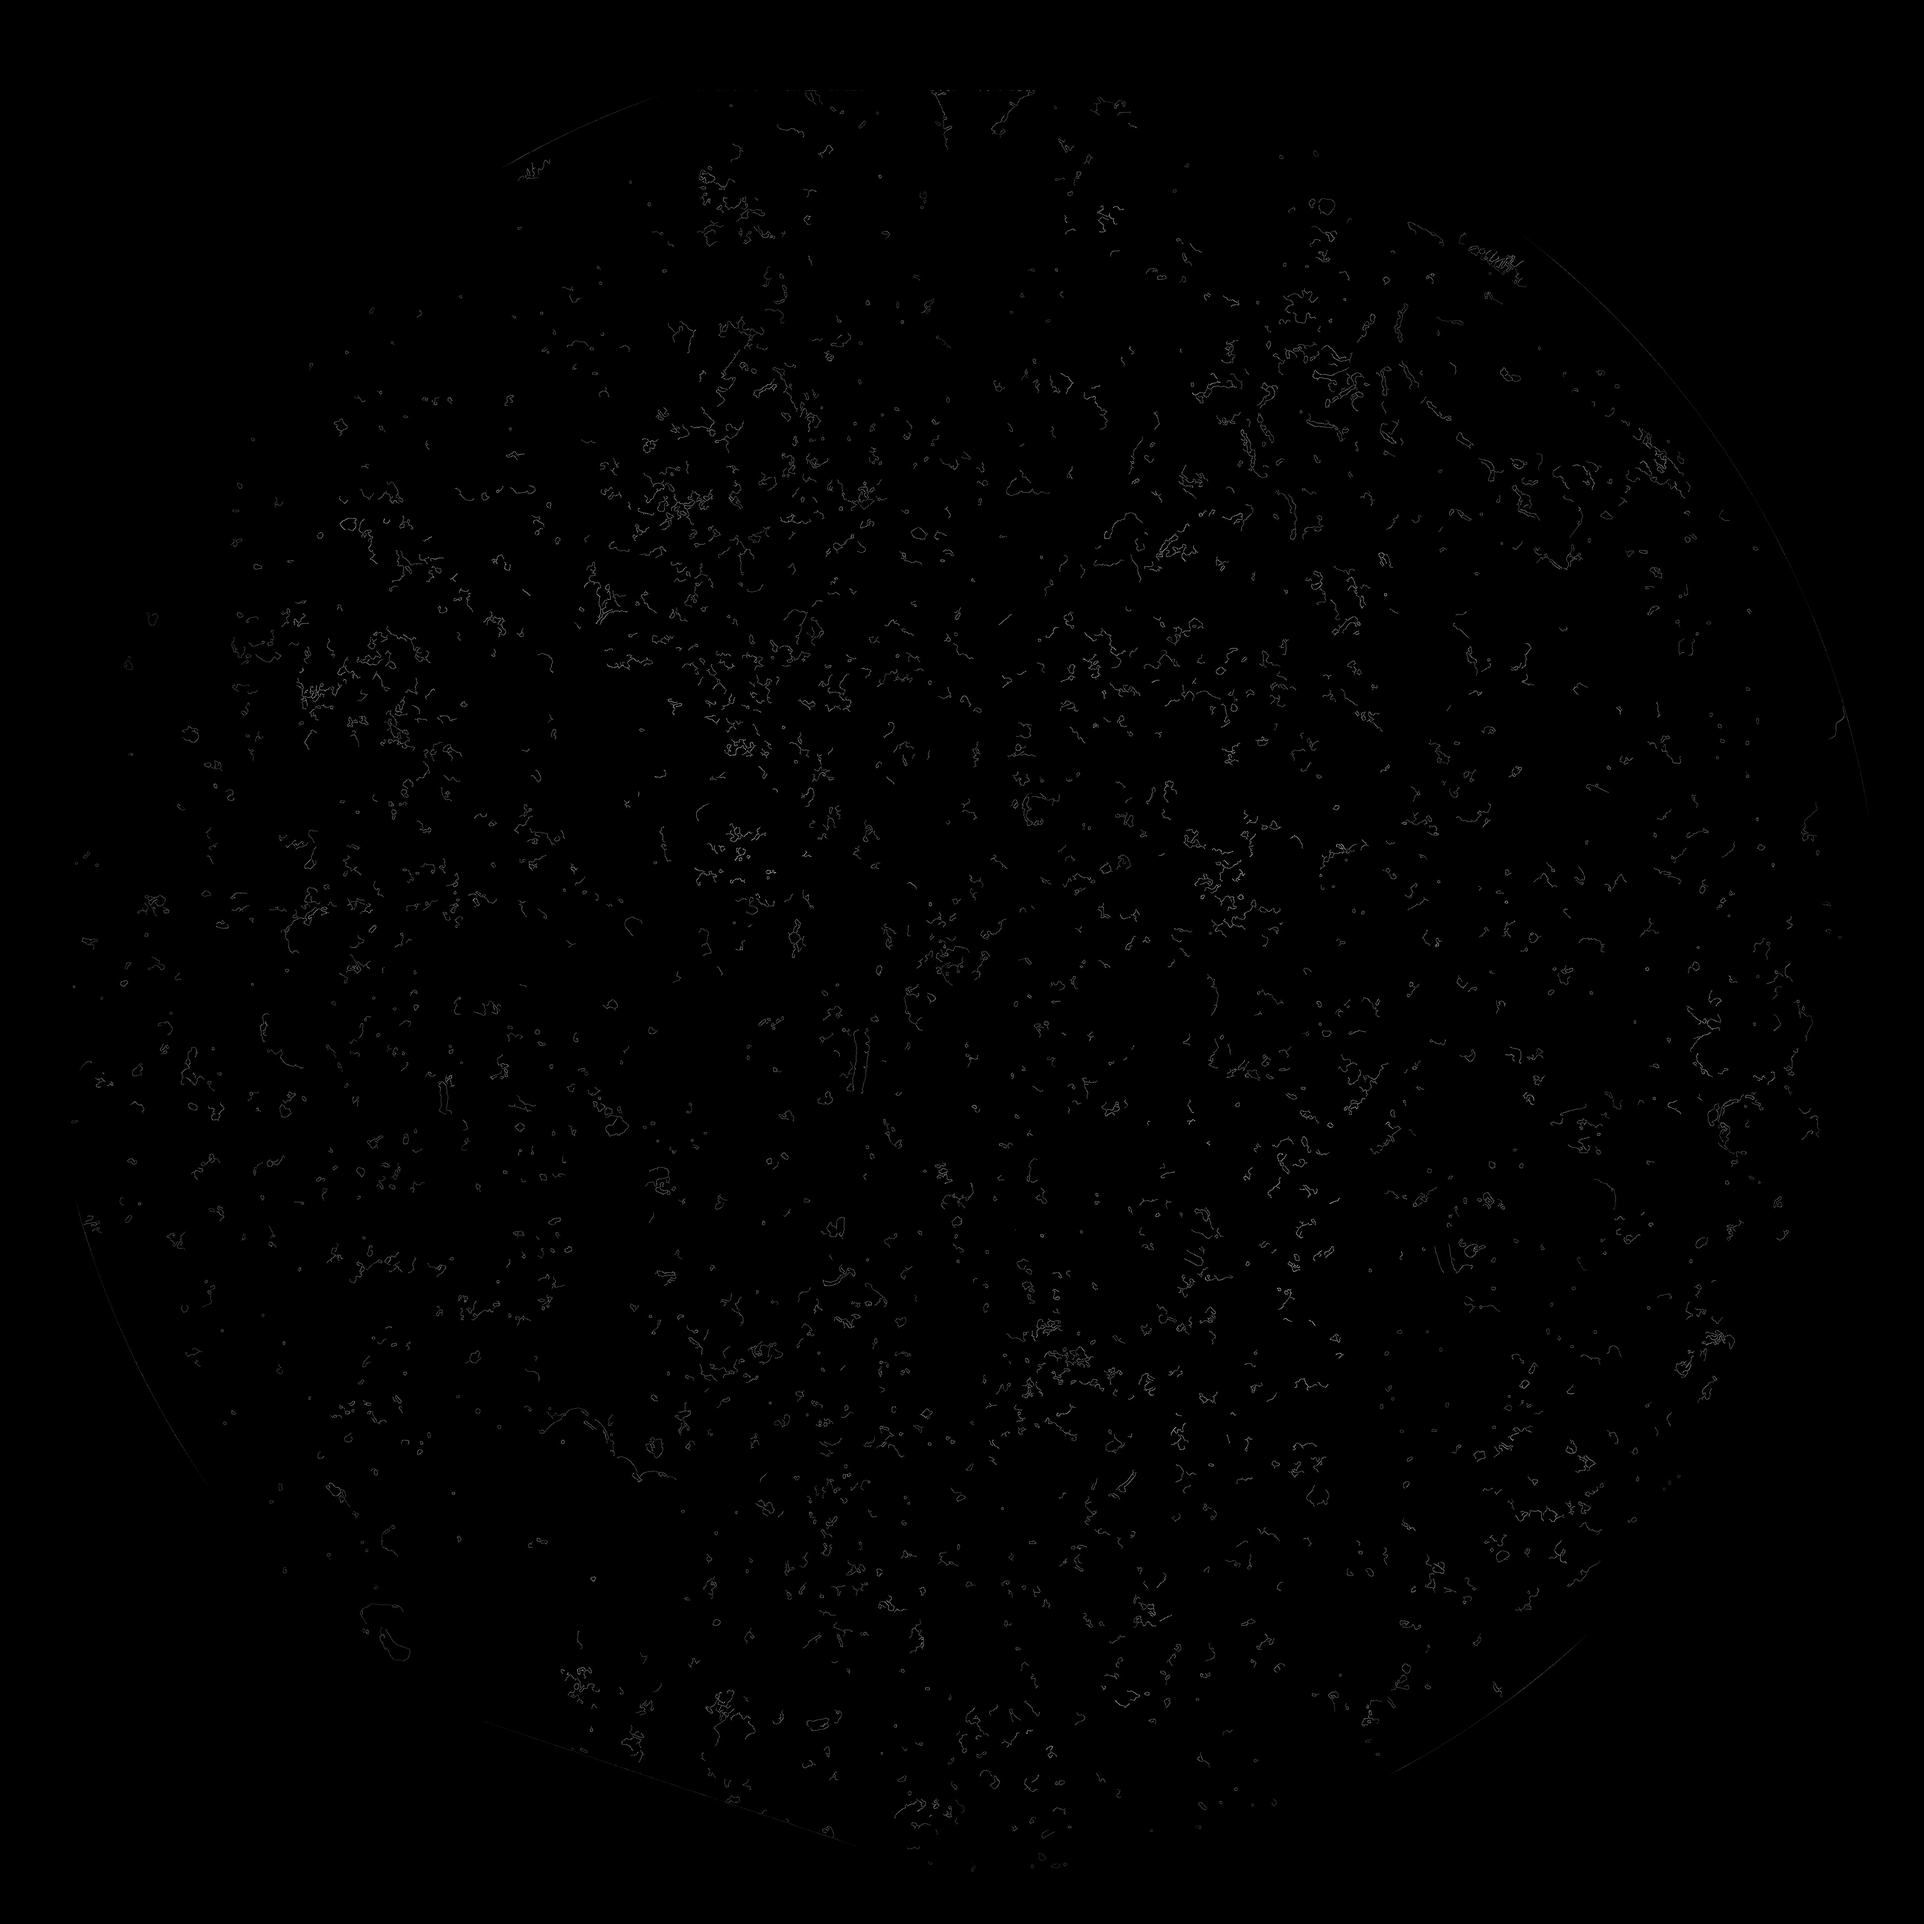
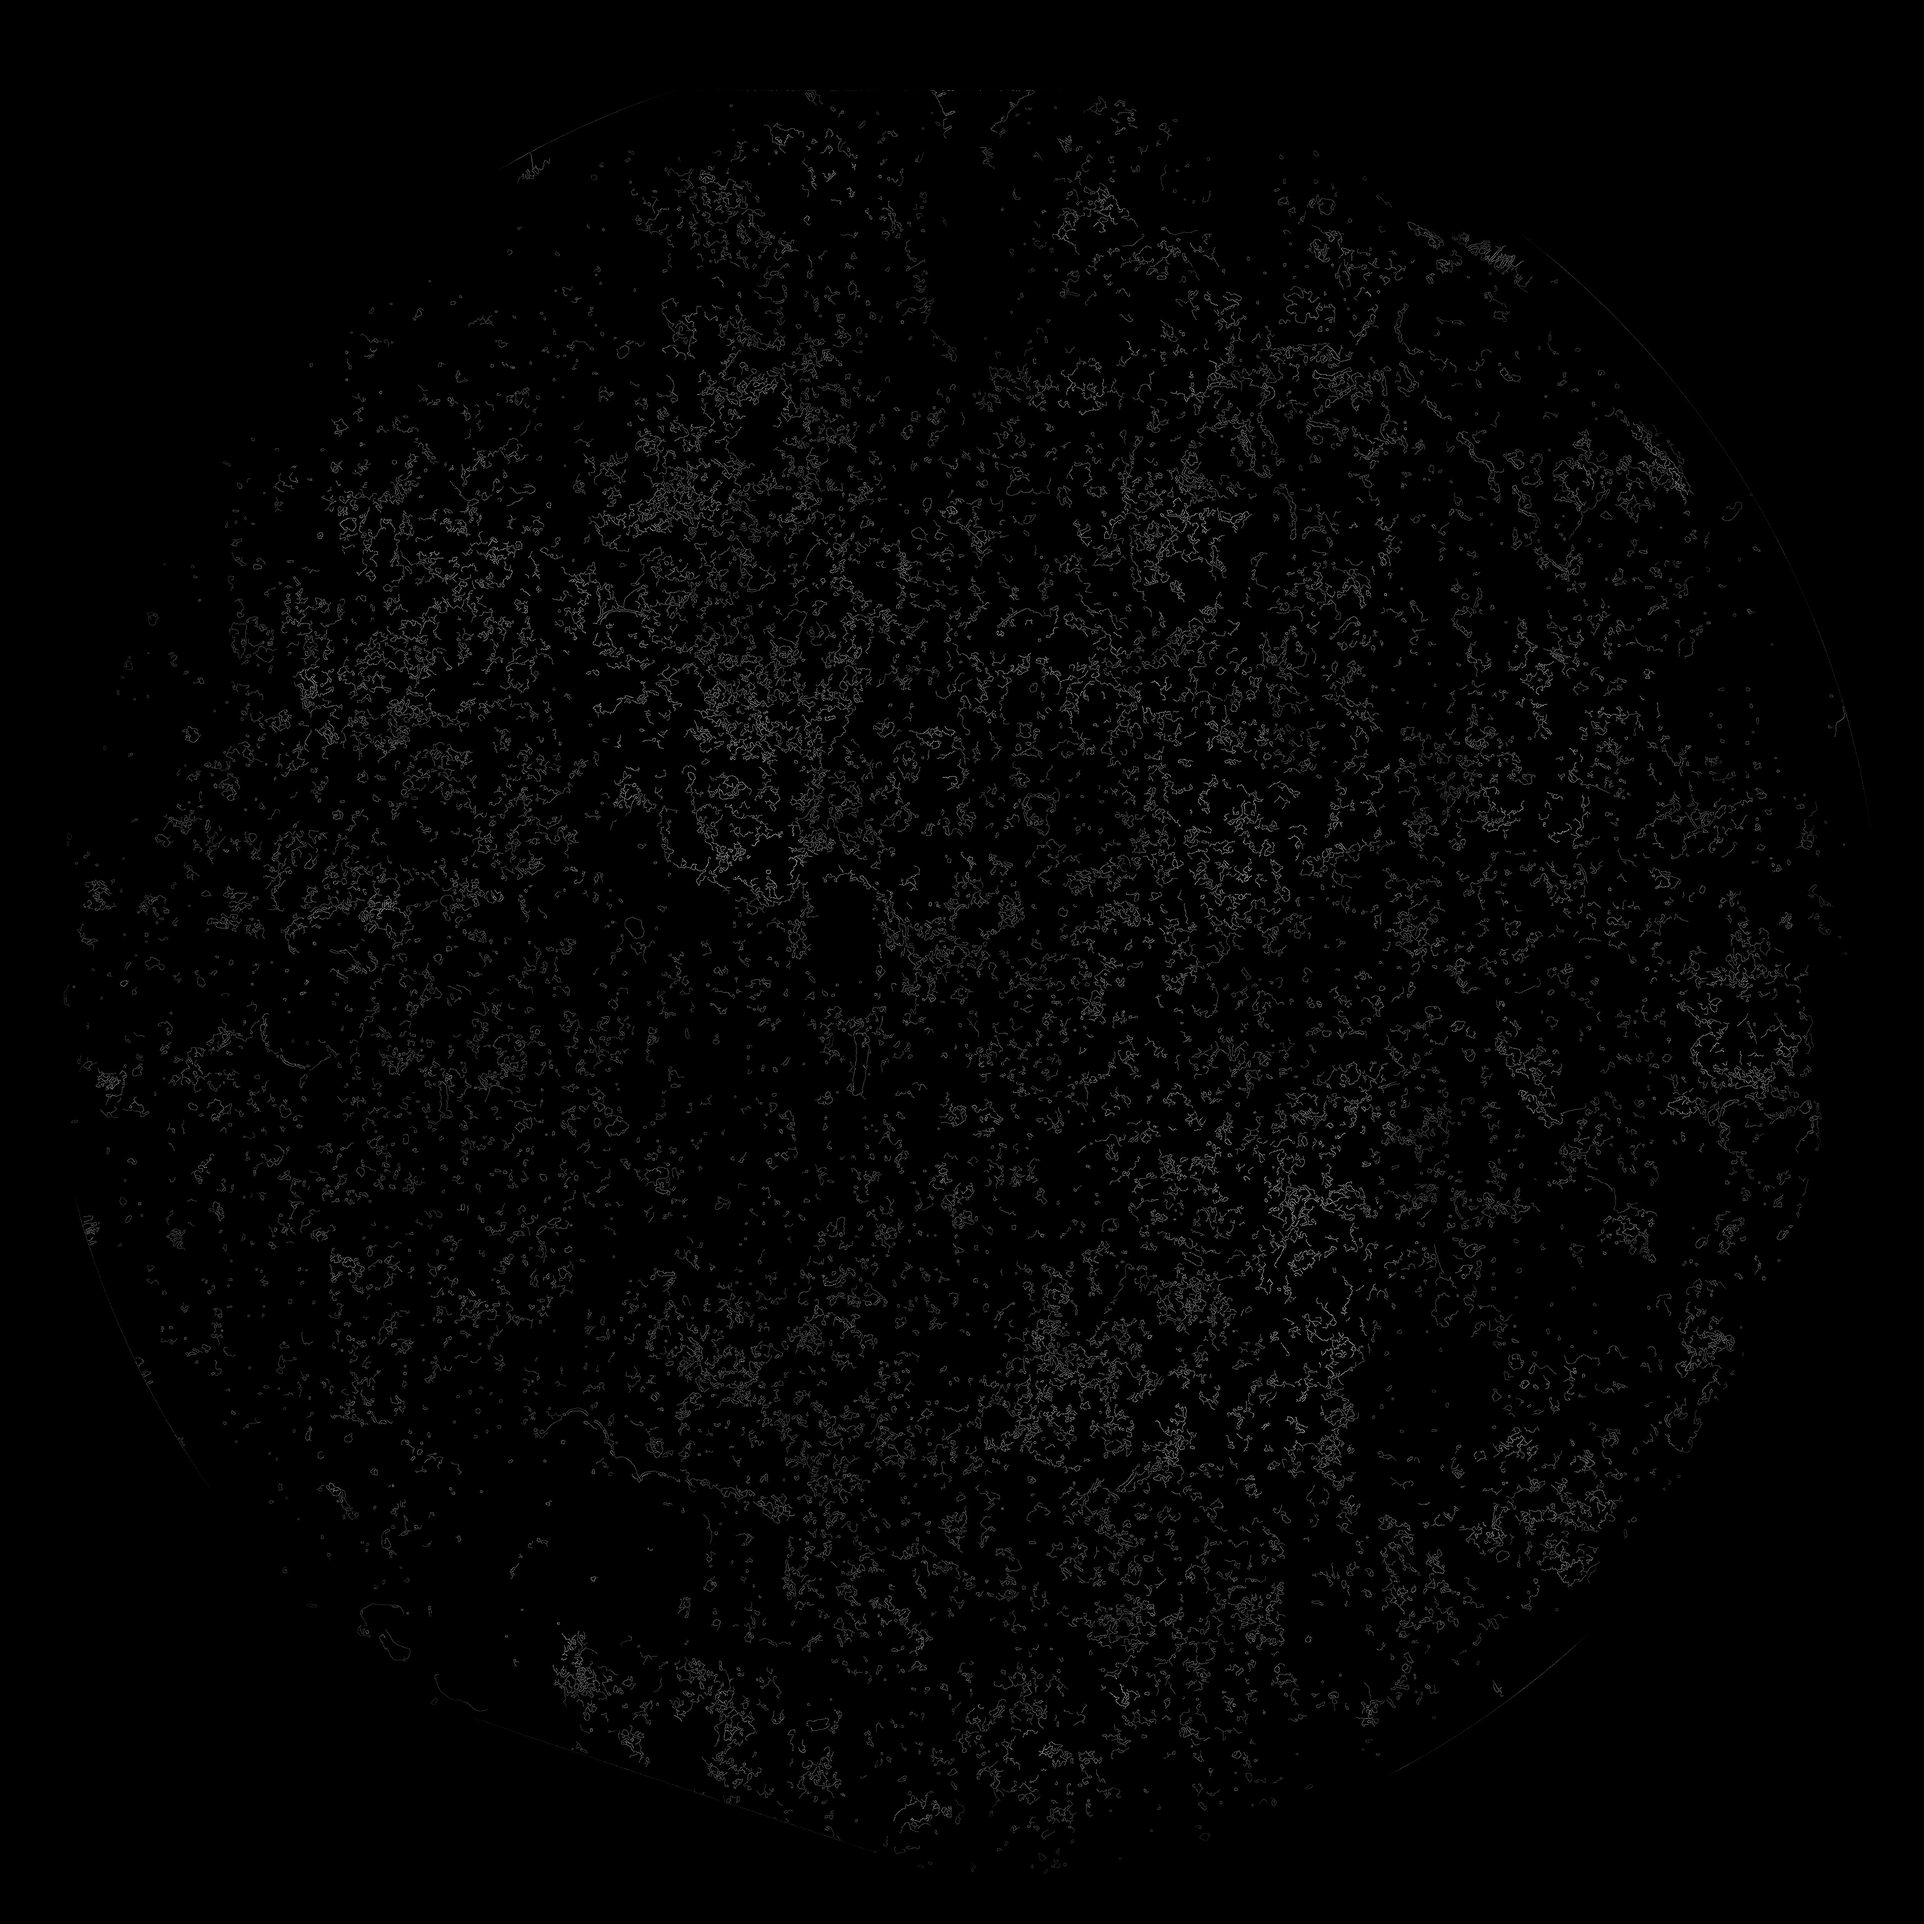
get rid of the cv.blur in canny, unfair advantage?

diff --git a/src/edgedetection/canny/canny.py b/src/edgedetection/canny/canny.py
@@ -24,7 +24,6 @@ for image in images:
     img = cv.GaussianBlur(image.img, (3, 3), 0)
     gray = cv.cvtColor(img, cv.COLOR_BGR2GRAY)
 
-    img_blur = cv.blur(gray, (3, 3))
     detected_edges = cv.Canny(img_blur, 50, 150, 3)
     mask = detected_edges != 0
     dst = cv.cvtColor(image.img * (mask[:,:,None].astype(image.img.dtype)), cv.COLOR_BGR2GRAY)
